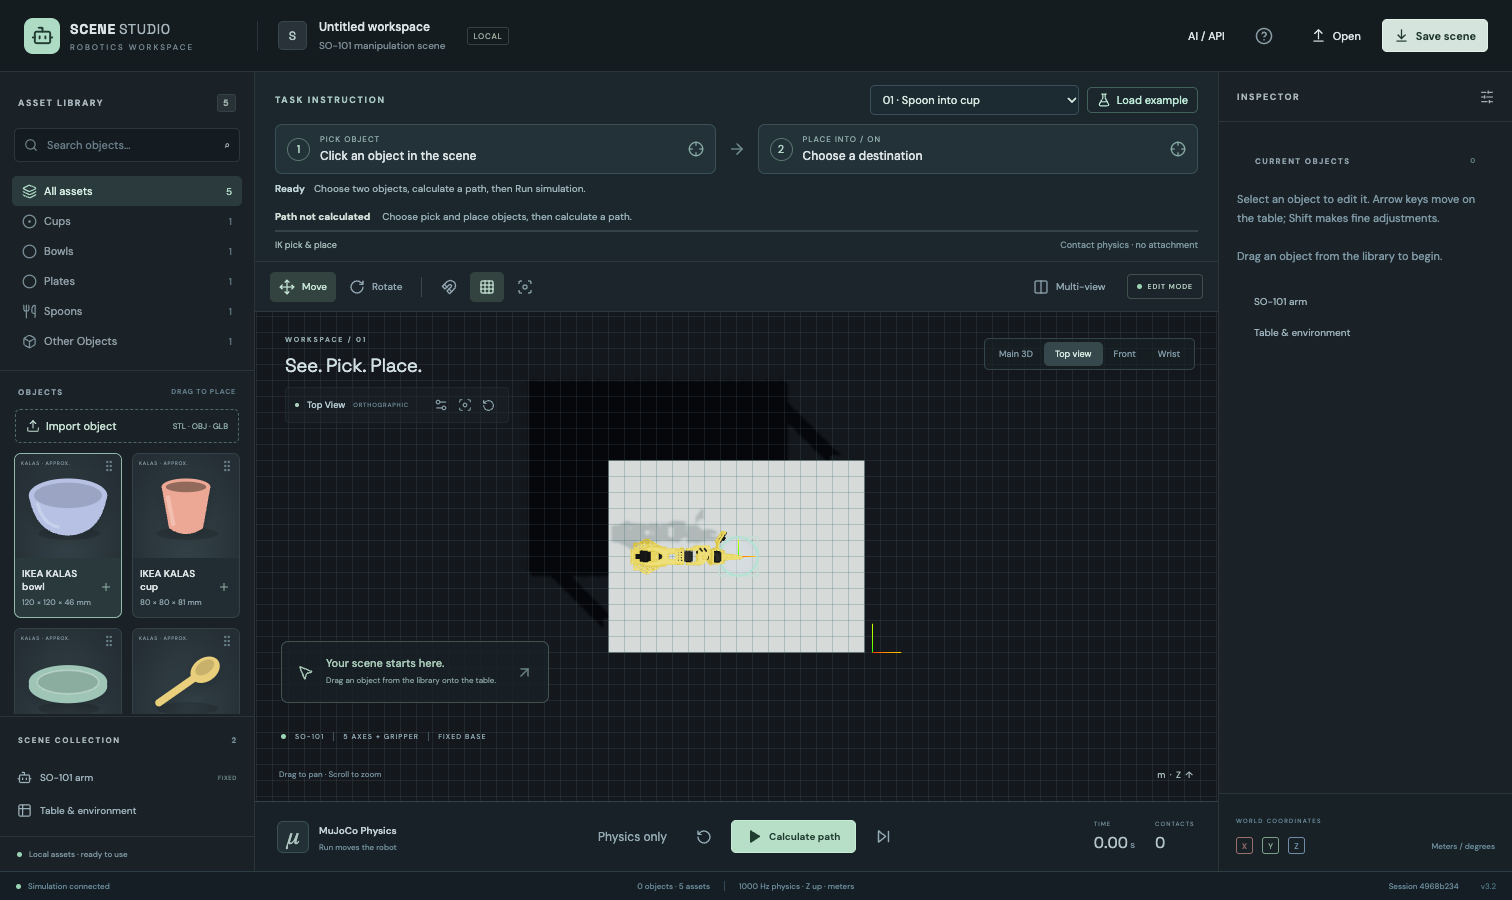
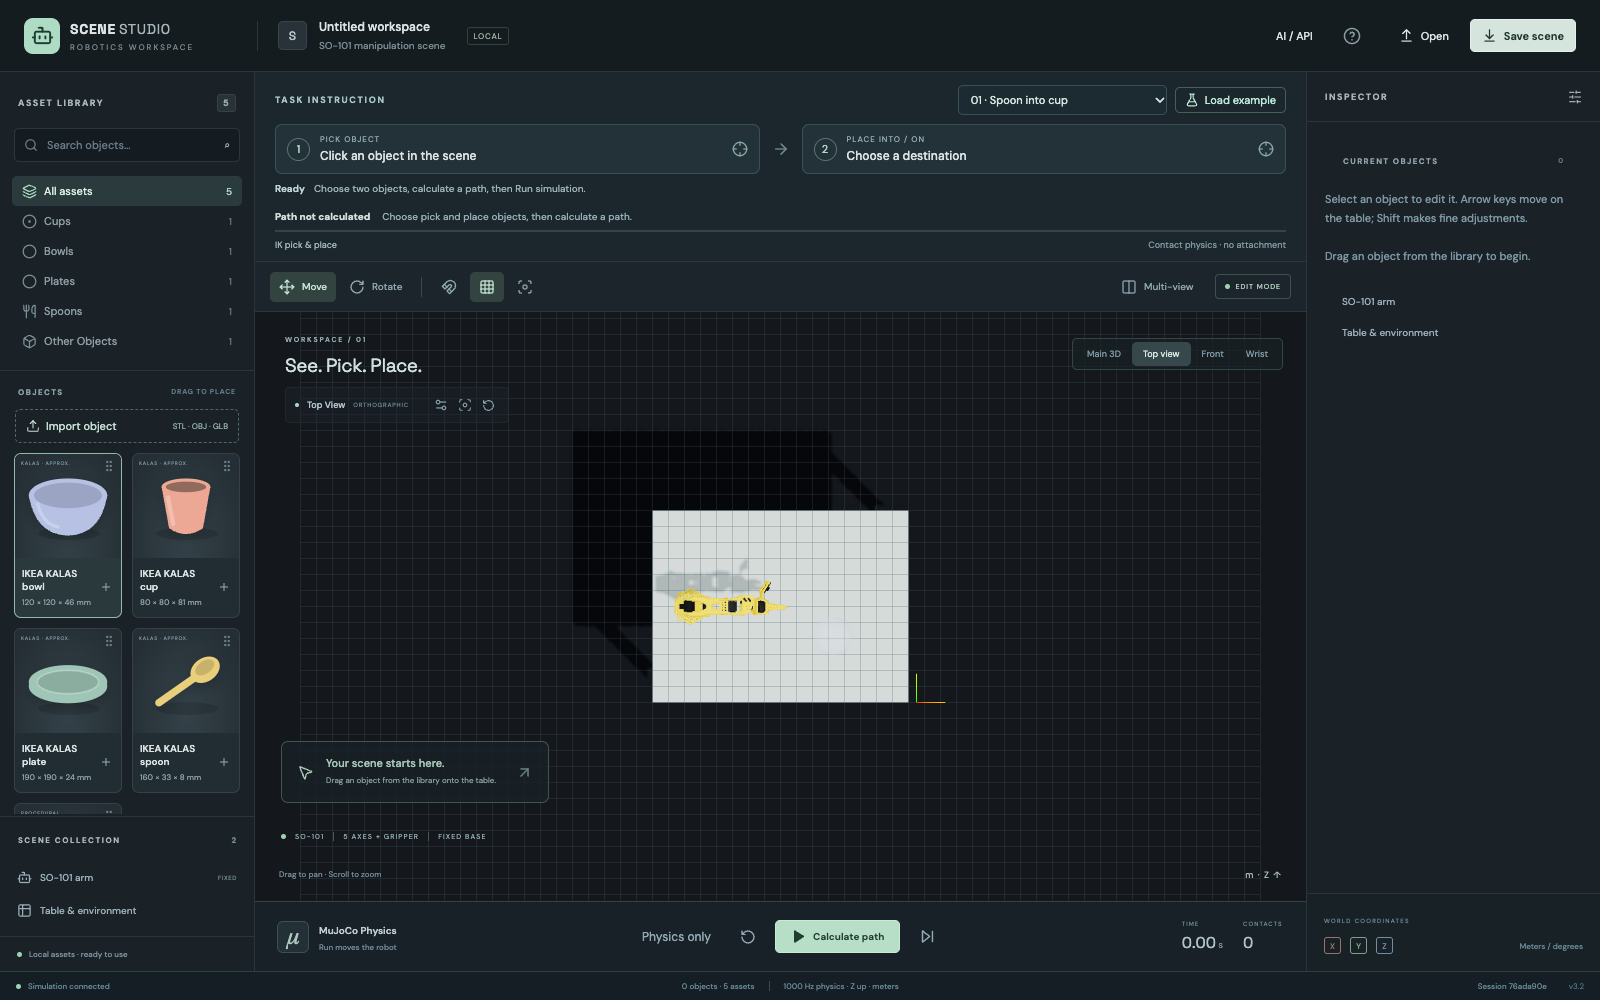
fix: keep placement preview object-only and activate drop camera

diff --git a/frontend/src/SceneOverlays.tsx b/frontend/src/SceneOverlays.tsx
@@ -9,11 +9,9 @@ import { objectDimensions } from "./interaction";
 export function PlacementGhost({
   asset,
   position,
-  tableHeight,
 }: {
   asset: Asset;
   position: Vec3;
-  tableHeight: number;
 }) {
   const [x, y, z] = asset.dimensions;
   const family = asset.id.replace("kalas_", "");
@@ -49,24 +47,6 @@ export function PlacementGhost({
   return (
     <group raycast={() => {}}>
       <group position={position}>
-        {(family === "cup" || family === "bowl" || family === "plate") && (
-          <Line
-            points={Array.from(
-              { length: 65 },
-              (_, i) =>
-                [
-                  (x / 2) * Math.cos((i * Math.PI) / 32),
-                  (y / 2) * Math.sin((i * Math.PI) / 32),
-                  z / 2,
-                ] as Vec3,
-            )}
-            color="#73ffd0"
-            lineWidth={2}
-            transparent
-            opacity={0.9}
-          />
-        )}
-
         {family === "cup" || family === "bowl" || family === "plate" ? (
           <mesh geometry={shell}>{material}</mesh>
         ) : family === "spoon" ? (
@@ -86,28 +66,7 @@ export function PlacementGhost({
             {material}
           </mesh>
         )}
-        <axesHelper args={[0.055]} />
       </group>
-      <mesh position={[position[0], position[1], tableHeight + 0.001]}>
-        <planeGeometry args={[x + 0.008, y + 0.008]} />
-        <meshBasicMaterial
-          color="#b2efd7"
-          transparent
-          opacity={0.18}
-          depthWrite={false}
-        />
-      </mesh>
-      <Line
-        points={[
-          [position[0] - x / 2, position[1] - y / 2, tableHeight + 0.002],
-          [position[0] + x / 2, position[1] - y / 2, tableHeight + 0.002],
-          [position[0] + x / 2, position[1] + y / 2, tableHeight + 0.002],
-          [position[0] - x / 2, position[1] + y / 2, tableHeight + 0.002],
-          [position[0] - x / 2, position[1] - y / 2, tableHeight + 0.002],
-        ]}
-        color="#b2efd7"
-        lineWidth={1.5}
-      />
     </group>
   );
 }

diff --git a/frontend/e2e/pointer.spec.ts b/frontend/e2e/pointer.spec.ts
@@ -92,3 +92,25 @@ test("pointer placement never starts native drag; Escape and outside release can
   );
   await expect(view).toHaveAttribute("data-preview-position", "");
 });
+
+test("dropping into another viewport activates that camera", async ({
+  page,
+}) => {
+  const view = page.getByTestId("viewport-top");
+  await expect(page.getByTestId("viewport-main")).toHaveClass(/active/);
+  const card = page.getByTestId("asset-kalas_bowl");
+  await card.scrollIntoViewIfNeeded();
+  const source = (await card.boundingBox())!;
+  const target = (await view.locator("canvas").boundingBox())!;
+  await page.mouse.move(source.x + 30, source.y + 40);
+  await page.mouse.down();
+  await page.mouse.move(
+    target.x + target.width / 2,
+    target.y + target.height / 2,
+    { steps: 12 },
+  );
+  await expect(view).not.toHaveAttribute("data-preview-position", "");
+  await page.mouse.up();
+  await expect(page.getByLabel("Object name")).toHaveValue("IKEA KALAS bowl");
+  await expect(view).toHaveClass(/active/);
+});

diff --git a/frontend/src/Viewport.tsx b/frontend/src/Viewport.tsx
@@ -491,11 +491,7 @@ function Contents(
         ]}
       />
       {p.dragAsset && p.ghost && (
-        <PlacementGhost
-          asset={p.dragAsset}
-          position={p.ghost}
-          tableHeight={p.snapshot.scene.table.height}
-        />
+        <PlacementGhost asset={p.dragAsset} position={p.ghost} />
       )}
       {highlighted && (
         <SelectionHalo
@@ -555,6 +551,7 @@ export function Viewport(p: Props) {
       setDragOver(false);
       if (committed.current !== cursor) {
         committed.current = cursor;
+        p.onActive();
         p.onDrop(p.dragAsset.id, hit);
       }
     } else {

diff --git a/docs/VERIFICATION.md b/docs/VERIFICATION.md
@@ -44,12 +44,12 @@ Browser checks used isolated ports 5174/8766 because the user's live server was 
 The previous transparent native drag image was insufficient on the user's browser. Library gestures now use pointer capture and explicitly disable native drag start; there is no native drag image to snapshot. Only the translucent object is rendered over the table, with no drag label/card. Escape, pointer cancellation, window blur, outside/control release and disabled editing cancel placement. The library and counters show four IKEA KALAS assets plus cube; legacy assets remain available to old scenes and API clients.
 
 - **94 backend tests passed** in 188.68 s, including all eleven examples rehearsed then independently executed at 1/17/33-step observation batches.
-- **25 browser scenarios passed**: full 24-case suite (1.7 min), plus example11 through Calculate path/Run/release (25.3 s). Additional pointer cancellation/control regressions passed.
+- **26 browser scenarios passed**: full 24-case suite (1.7 min), plus example11 through Calculate path/Run/release (25.3 s), plus viewport activation after drop. All three pointer scenarios passed again after final polish (6.1 s).
 - **13 frontend unit tests**, strict TypeScript and production build passed. Existing bundle-size warning remains.
-- Total: **132 distinct automated cases**. Tests use isolated servers; user scenes are preserved.
+- Total: **133 distinct automated cases**. Tests use isolated servers; user scenes are preserved.
 
 Example11 starts from a measured resting spoon pose inside the cup. Upright-handle IK constrains position and pinch direction while allowing wrist tilt, rather than overconstraining the five-axis arm. Physical opposing contact remains mandatory. Regression checks verify initial spoon/cup contact, spoon clearance above the rim before Transfer, cup displacement below 2 cm and cup uprightness, then released destination support. The original ten tasks retain their full-pose grasp method.
 
 The independent 1 ms audit of example11 succeeded in 17.907 simulated seconds, with 6,602/6,602 secure carrying samples, zero unsupported time, minimum jaw force 3.56 N and maximum jaw overlap 0.347 mm. No attachment constraint is present. Native initial/grasp/lift/release frames were inspected. [Raw audit](physics/example11-extraction.json) · [video](screenshots/example11-extraction.mp4) · [initial scene](screenshots/example11-initial.png) · [pointer placement](screenshots/pointer-only-placement.png).
 
-Implementation decision: keep legacy asset definitions/API entries for saved-scene compatibility; curate only the editor library. These remain approximate rigid-body materials/geometry, and bounded IK can reject arbitrary arrangements. Independent final review pending.
+Implementation decision: keep legacy asset definitions/API entries for saved-scene compatibility; curate only the editor library. These remain approximate rigid-body materials/geometry, and bounded IK can reject arbitrary arrangements. Independent final review found no critical or important issues and independently passed 28 focused backend checks and two pointer browser scenarios. It found one minor regression: a drop into another viewport did not activate that camera. A new browser regression reproduced the failure, then passed after restoring activation before placement. No findings remain deferred. Final visual polish removes the preview axes, rim and floor guides, leaving only the translucent object; the screenshot was refreshed and inspected. Frontend unit tests, TypeScript and production build passed again after these changes. Review did not certify hardware calibration or guaranteed success for arbitrary arrangements.

diff --git a/docs/superpowers/plans/2026-10-24-pointer-extraction.md b/docs/superpowers/plans/2026-10-24-pointer-extraction.md
@@ -28,4 +28,4 @@ No invisible attachment or object teleportation during execution. Preserve live 
 - [x] Run contact tests, all examples, audit/render new example, full suites; commit.
 
 ### Task 3: Review and integrate
-- [ ] Independent final review, fix important findings with regressions, preserve results/decisions in verification docs, push main.
+- [x] Independent final review, fix important findings with regressions, preserve results/decisions in verification docs, push main.
